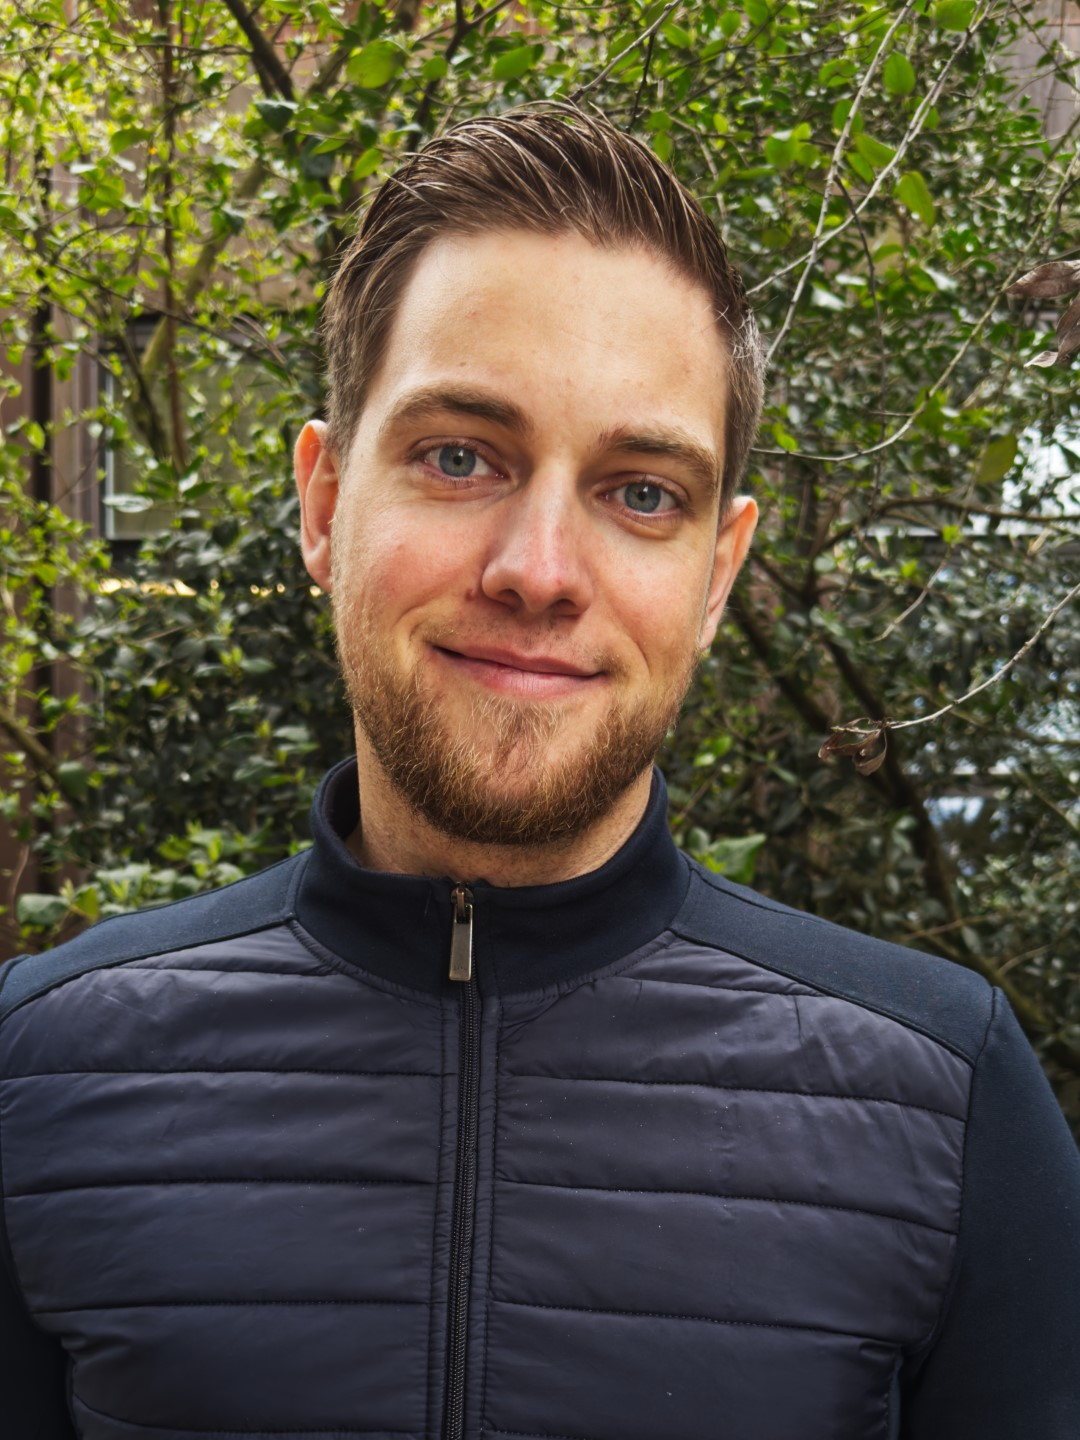
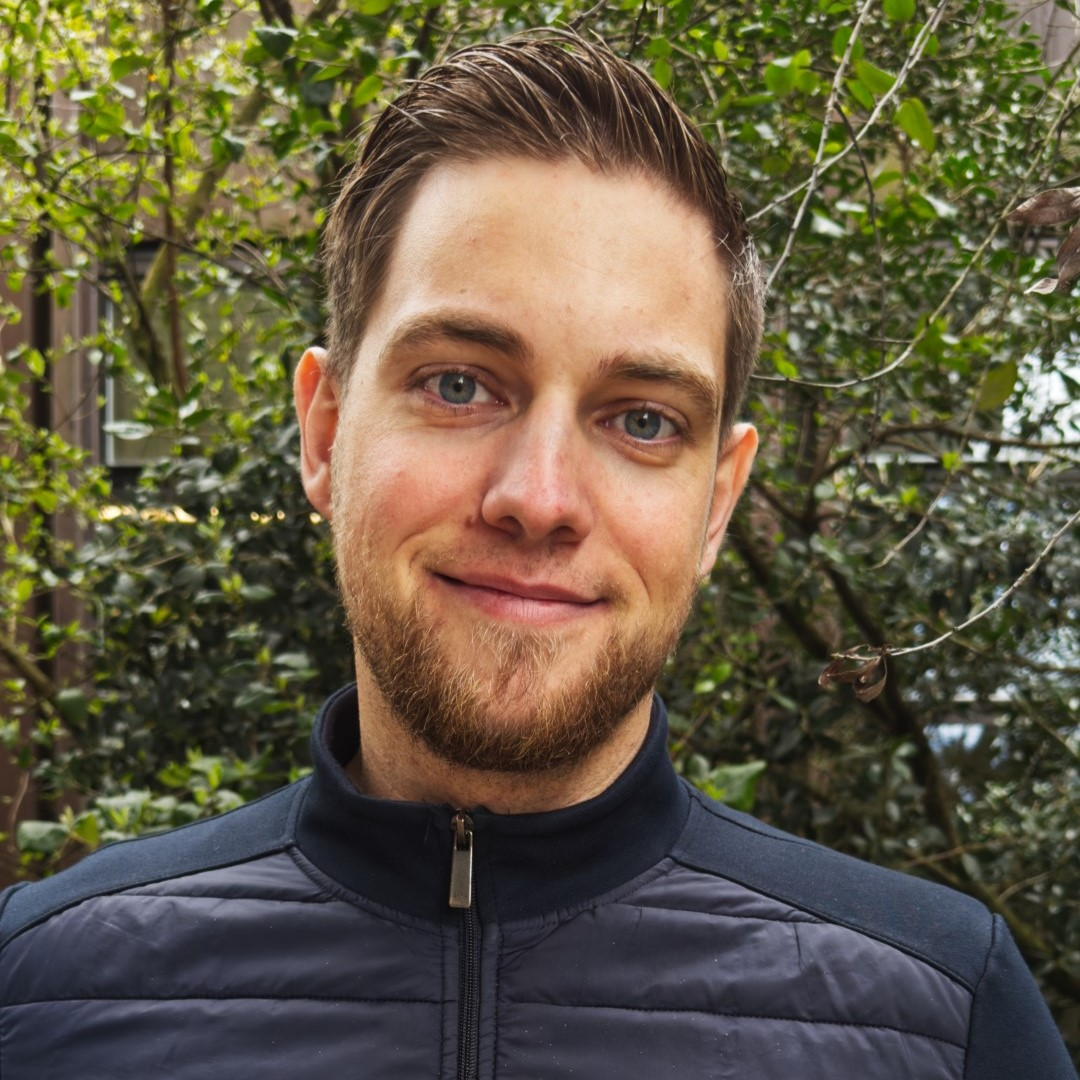
add our team

diff --git a/index.html b/index.html
@@ -31,39 +31,112 @@
 
 		<!-- One -->
 			<section id="one" class="wrapper style2 special">
+				<div class="inner alt">
 <p>
 	Die SportMatcher-App ist eine innovative Plattform, die es Sportbegeisterten ermöglicht, Gleichgesinnte in ihrer Umgebung für gemeinsame sportliche Aktivitäten zu finden. Ganz im Stil von Tinder bietet die App eine spielerische und intuitive Benutzeroberfläche, um die Suche nach dem idealen Sportpartner zu erleichtern.
 
-Egal, ob du nach einem Laufpartner, einem Tennisgegner, einem Fitness-Buddy oder einem Team für eine Mannschaftssportart suchst - SportMatcher bringt dich mit anderen Menschen zusammen, die ähnliche sportliche Interessen haben. SportMatcher ist die ideale App, um Menschen mit ähnlichen sportlichen Interessen kennenzulernen, neue Trainingspartner zu finden und gemeinsam sportliche Ziele zu erreichen. Egal, ob du ein Anfänger bist, der motivierende Unterstützung sucht, oder ein erfahrener Sportler, der neue Herausforderungen sucht - SportMatcher bringt dich mit anderen Sportbegeisterten zusammen und sorgt für aktiven Spaß und sportliche Erfolge.
+Egal, ob du nach einem Laufpartner, einem Tennisgegner, einem Fitness-Buddy oder einem Team für eine Mannschaftssportart suchst - SportMatcher bringt dich mit anderen Menschen zusammen, die ähnliche sportliche Interessen haben. SportMatcher ist die ideale App, um Menschen mit ähnlichen sportlichen Interessen kennenzulernen, neue Trainingspartner zu finden und gemeinsam sportliche Ziele zu erreichen. Egal, ob du ein Anfänger bist, der motivierende Unterstützung sucht, oder ein erfahrener Sportler, der neue Herausforderungen sucht - SportMatcher bringt dich mit anderen Sportbegeisterten zusammen und sorgt für aktiven Spass und sportliche Erfolge.
 
 Lade die SportMatcher-App jetzt herunter und finde den perfekten Sportpartner, um gemeinsam sportliche Abenteuer zu erleben!
 
 
 </p>
+				</div>
 			</section>
 
 		<!-- Two -->
 			<section id="two" class="wrapper">
+				<header class="major">
+					<h2>Unser Team</h2>
+					<p>Unser Team besteht aus leidenschaftlichen Sportbegeisterten, die sich zusammengetan haben, um die
+						beste Pairing-App für Sportler zu entwickeln.</p>
+				</header>
 				<div class="inner alt">
 					<section class="spotlight">
-						<div class="image"><img src="images/pic01.jpg" alt="" /></div>
+						<div class="image"><img alt="" src="images/ramon.jpg"/></div>
 						<div class="content">
-							<h3>Magna sed ultrices</h3>
-							<p>Morbi mattis ornare ornare. Duis quam turpis, gravida at leo elementum elit fusce accumsan dui libero, quis vehicula lectus ultricies eu. In convallis amet leo non sapien iaculis efficitur consequat lorem ipsum.</p>
+							<h3>Ramon Ebneter</h3>
+							<p>Ramon spielt in unserem Team eine wichtige Rolle als <strong>Motivator</strong>, der
+								seine
+								Begeisterung und Energie auf andere überträgt, um das Team zu Höchstleistungen
+								anzuspornen. Darüber hinaus ist er ein <strong>Organisator</strong>, der dafür sorgt,
+								dass Projekte
+								reibungslos ablaufen und die Teammitglieder effektiv zusammenarbeiten.
+							</p>
+							<p>Als <strong>Typograf</strong> bringt Ramon sein Fachwissen und seine kreative
+								Herangehensweise ein, um
+								sicherzustellen, dass die Texte und Inhalte in unserer App optimal präsentiert werden.
+								Er versteht es, die richtigen Schriftarten und Layouts auszuwählen, um eine ansprechende
+								visuelle Darstellung zu erreichen.
+							</p>
+							<p>Als <strong>Farbgestalter</strong> ist Ramon verantwortlich für die Wahl und Verwendung
+								von Farben, um die
+								Benutzeroberfläche unserer App zu gestalten. Er hat ein Auge für Ästhetik und setzt
+								Farben ein, um eine harmonische und benutzerfreundliche Erfahrung zu schaffen.
+							</p>
+							<p>Durch seine vielfältigen Fähigkeiten und seine Leidenschaft für Design trägt Ramon
+								massgeblich zum Erfolg unseres Teams und zur Schaffung einer einzigartigen
+								Benutzererfahrung bei.
+							</p>
 						</div>
 					</section>
 					<section class="spotlight">
-						<div class="image"><img src="images/pic02.jpg" alt="" /></div>
+						<div class="image"><img alt="" src="images/marc.jpg"/></div>
 						<div class="content">
-							<h3>Ultrices nullam aliquam</h3>
-							<p>Morbi mattis ornare ornare. Duis quam turpis, gravida at leo elementum elit fusce accumsan dui libero, quis vehicula lectus ultricies eu. In convallis amet leo non sapien iaculis efficitur consequat lorem ipsum.</p>
-						</div>
+							<h3>Marc Kissling</h3>
+							<p>Marc ist eine wertvolle Ergänzung für unser Team und bringt eine Reihe von einzigartigen
+								Fähigkeiten mit sich. </p>
+							<p>Als <strong>Querdenker</strong> denkt Marc ausserhalb der Box und bringt frische und
+								innovative Ideen ein. Er hat die Fähigkeit, Probleme aus verschiedenen Blickwinkeln zu
+								betrachten und kreative Lösungen zu finden. Sein kritisches Denken und seine
+								unkonventionellen Ansätze bereichern unsere Projekte und fördern eine dynamische
+								Teamkultur.</p>
+							<p>Mit seiner Rolle als <strong>Varia</strong> ist Marc vielseitig einsetzbar. Er ist
+								flexibel und kann sich schnell in neue Aufgaben einarbeiten. Egal ob es um Konzeption,
+								Projektmanagement oder Teamunterstützung geht, Marc ist immer zur Stelle, um den
+								reibungslosen Ablauf sicherzustellen.</p>
+							<p>Als <strong>Makrotypograf</strong> ist Marc für das Layout und die Gestaltung des Textes
+								in unseren Projekten verantwortlich. Er sorgt dafür, dass die Inhalte optimal
+								strukturiert und präsentiert werden. Mit seinem Blick für Details und seinem Verständnis
+								für Typografie schafft er eine ansprechende visuelle Darstellung.</p>
+							<p>Marc übernimmt auch die Rolle des <strong>Marketingverantwortlichen</strong>, wo er sein
+								Fachwissen in den Bereichen Marketingstrategie, Marktforschung und Kampagnenmanagement
+								einsetzt. Er versteht es, Zielgruppen zu analysieren und effektive Marketingpläne zu
+								entwickeln, um unsere Produkte und Dienstleistungen erfolgreich zu positionieren.</p>
+							<p>Zusätzlich ist Marc auch als <strong>Piktogrammer</strong> tätig. Er hat ein Auge für
+								Grafikdesign und erstellt ansprechende Piktogramme und Icons, die unsere
+								Benutzeroberfläche bereichern und Informationen visuell vermitteln.</p>
+							<p>Mit seinen vielfältigen Rollen und seinem Engagement für Exzellenz trägt Marc massgeblich
+								zum Erfolg unseres Teams bei und bereichert unsere Projekte mit seinem vielseitigen
+								Skillset.</p></div>
 					</section>
 					<section class="spotlight">
-						<div class="image"><img src="images/pic03.jpg" alt="" /></div>
+						<div class="image"><img alt="" src="images/joshua.jpg"/></div>
 						<div class="content">
-							<h3>Aliquam sed magna</h3>
-							<p>Morbi mattis ornare ornare. Duis quam turpis, gravida at leo elementum elit fusce accumsan dui libero, quis vehicula lectus ultricies eu. In convallis amet leo non sapien iaculis efficitur consequat lorem ipsum.</p>
+							<h3>Joshua Beny Hürzeler</h3>
+							<p>Joshua ist eine wertvolle Bereicherung für unser Team und nimmt verschiedene Rollen ein,
+								um den Erfolg unserer Projekte sicherzustellen.</p>
+							<p>Als <strong>Moderator</strong> bringt Joshua seine Kommunikationsfähigkeiten und sein
+								diplomatisches Geschick ein, um das Team zu leiten und eine produktive Arbeitsumgebung
+								zu fördern. Er sorgt dafür, dass jeder seine Stimme hören kann und dass die
+								Teammitglieder effektiv zusammenarbeiten.</p>
+							<p>Joshua ist auch ein erfahrener <strong>Präsentator</strong>. Er hat die Fähigkeit,
+								komplexe Informationen klar und überzeugend zu präsentieren. Mit seiner ruhigen und
+								selbstbewussten Art kann er Inhalte vermitteln und das Publikum begeistern.</p>
+							<p>Als <strong>Bildgestalter</strong> ist Joshua verantwortlich für die visuelle Gestaltung
+								unserer Projekte. Er hat ein ausgeprägtes ästhetisches Empfinden und versteht es,
+								Grafiken, Bilder und visuelle Elemente einzusetzen, um eine ansprechende
+								Benutzererfahrung zu schaffen.</p>
+							<p>Joshua nimmt auch die Rolle des <strong>Kritikers</strong> ein. Er ist in der Lage,
+								Projekte und Ideen objektiv zu bewerten und konstruktives Feedback zu geben. Durch seine
+								kritischen Analysen trägt er dazu bei, die Qualität unserer Arbeit kontinuierlich zu
+								verbessern.</p>
+							<p>Als <strong>Controller</strong> behält Joshua den Überblick über den Fortschritt unserer
+								Projekte. Er plant und überwacht die Ressourcen, den Zeitplan und die Budgets, um
+								sicherzustellen, dass wir unsere Ziele erreichen.</p>
+							<p>Mit seinen vielfältigen Rollen und seinen starken Fähigkeiten ist Joshua eine treibende
+								Kraft in unserem Team. Er trägt massgeblich zum Erfolg unserer Projekte bei und sorgt
+								dafür, dass wir qualitativ hochwertige Ergebnisse erzielen.</p>
 						</div>
 					</section>
 					<section class="special">

diff --git a/assets/css/main.css b/assets/css/main.css
@@ -344,11 +344,6 @@ input, select, textarea {
 
 /* Row */
 
-#one {
-	margin-left: 200px;
-	margin-right: 200px;
-}
-
 	.row {
 		display: flex;
 		flex-wrap: wrap;
@@ -2753,10 +2748,11 @@ input, select, textarea {
 		display: -webkit-flex;
 		display: -ms-flex;
 		display: flex;
-		-moz-align-items: center;
-		-webkit-align-items: center;
-		-ms-align-items: center;
-		align-items: center;
+		-moz-align-items: flex-start;
+		-webkit-align-items: flex-start;
+		-ms-align-items: flex-start;
+		align-items: flex-start;
+		justify-content: center;
 		margin: 0 0 2em 0;
 	}
 
